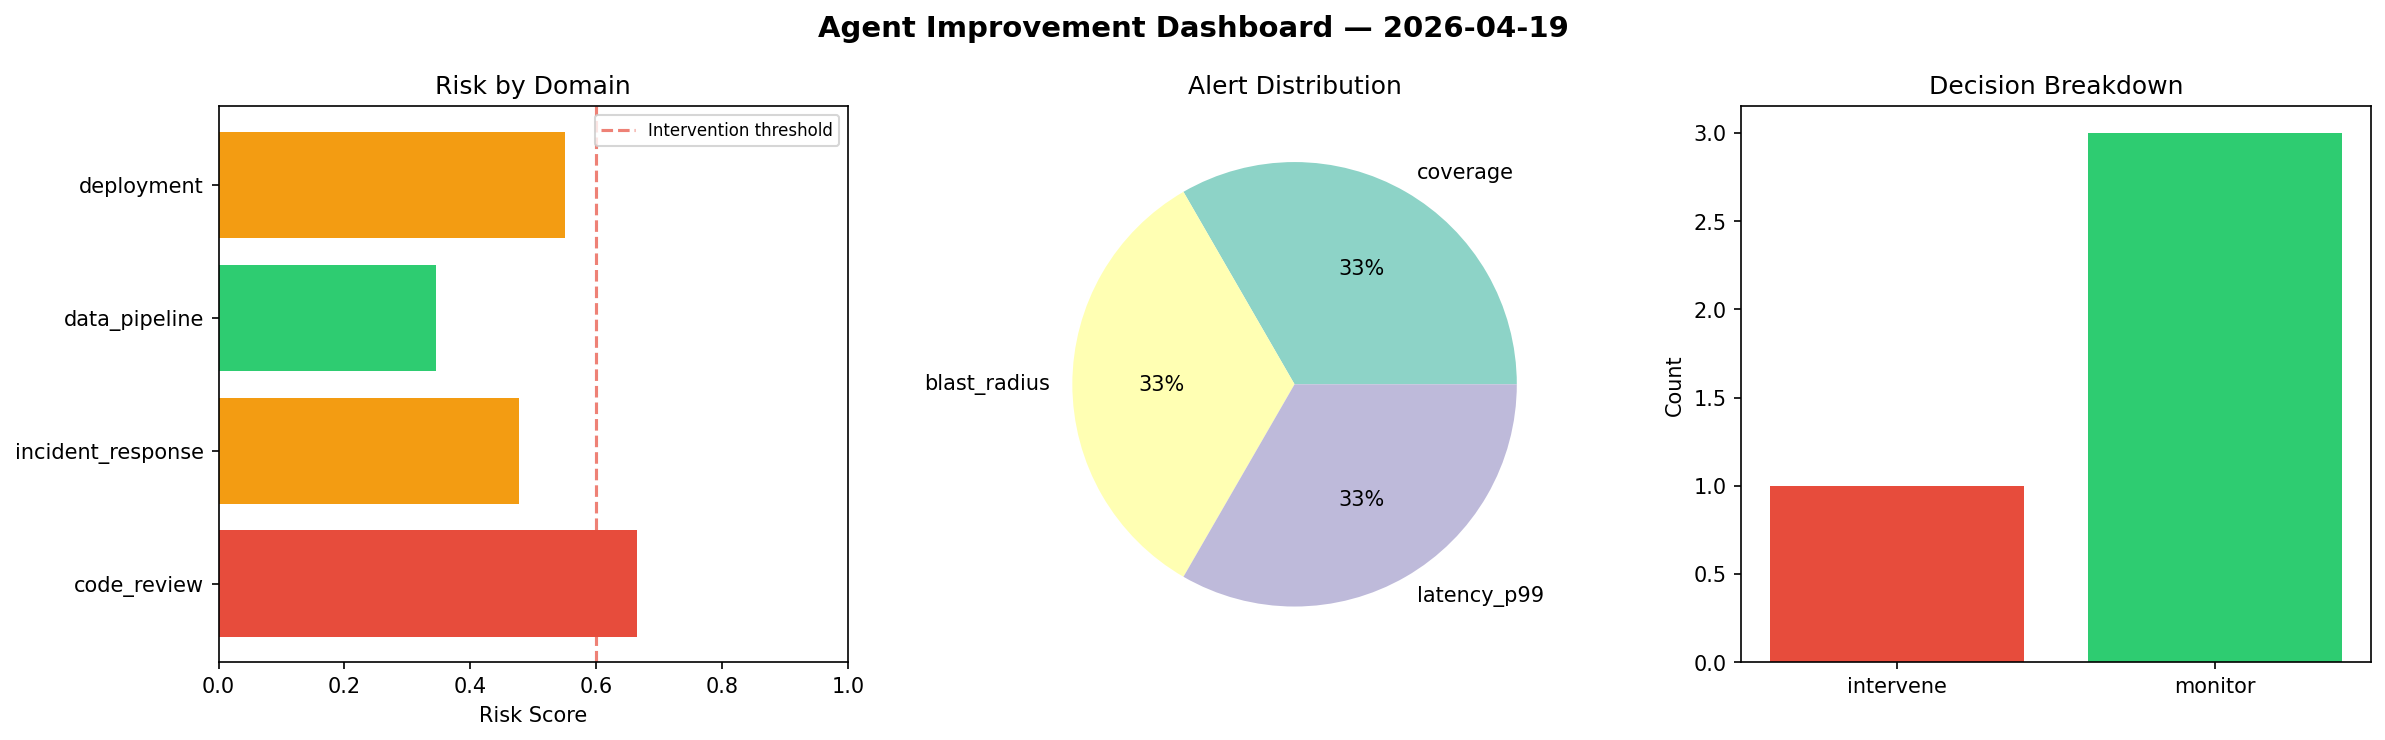
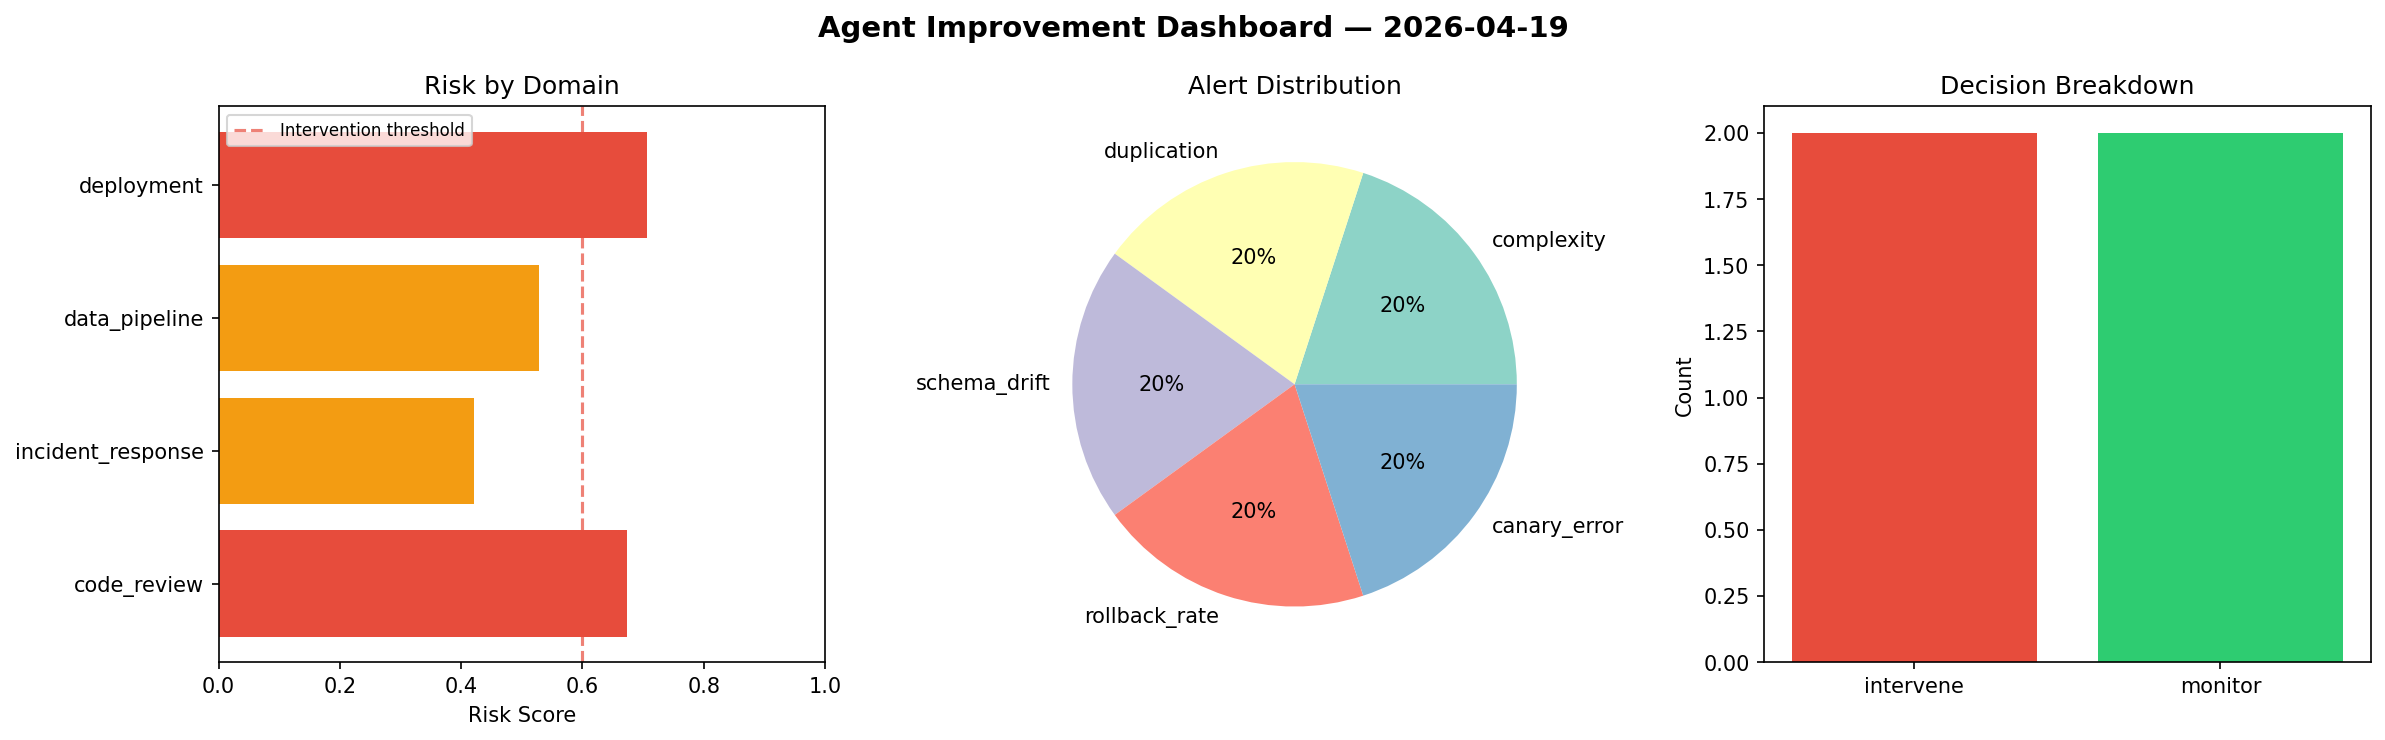
agent-improvement: daily cycle 2026-04-19T09:07

diff --git a/logs/2026-04-19.md b/logs/2026-04-19.md
@@ -1,6 +1,6 @@
 # Agent Improvement Report — 2026-04-19
 
-**Cycle ID:** `2b0f4990` | **Avg Risk:** 0.5097 | **Interventions:** 1/4
+**Cycle ID:** `5b38e896` | **Avg Risk:** 0.5825 | **Interventions:** 2/4
 
 ![Dashboard](2026-04-19_dashboard.png)
 
@@ -10,18 +10,18 @@
 
 | Domain | Risk Score | Decision | Alerts |
 |--------|-----------|----------|--------|
-| code_review | 0.665 | intervene | coverage |
-| incident_response | 0.4769 | monitor | blast_radius |
-| data_pipeline | 0.3457 | monitor | none |
-| deployment | 0.5513 | monitor | latency_p99 |
+| code_review | 0.6733 | intervene | complexity, duplication |
+| incident_response | 0.4212 | monitor | none |
+| data_pipeline | 0.5286 | monitor | schema_drift |
+| deployment | 0.7068 | intervene | rollback_rate, canary_error |
 
 ## Delta vs Yesterday
 
 | Domain | Today | Yesterday | Change |
 |--------|-------|-----------|--------|
-| code_review | 0.665 | 0.363 | 📈 83.2% |
-| incident_response | 0.4769 | 0.603 | 📉 -20.9% |
-| data_pipeline | 0.3457 | 0.4181 | 📉 -17.3% |
-| deployment | 0.5513 | 0.4599 | 📈 19.9% |
+| code_review | 0.6733 | 0.363 | 📈 85.5% |
+| incident_response | 0.4212 | 0.603 | 📉 -30.1% |
+| data_pipeline | 0.5286 | 0.4181 | 📈 26.4% |
+| deployment | 0.7068 | 0.4599 | 📈 53.7% |
 
-**Refinement:** `{'adjustment': 'maintain', 'trend': 'improving', 'window': 4}`
+**Refinement:** `{'adjustment': 'tighten_thresholds', 'trend': 'degrading', 'window': 4}`
